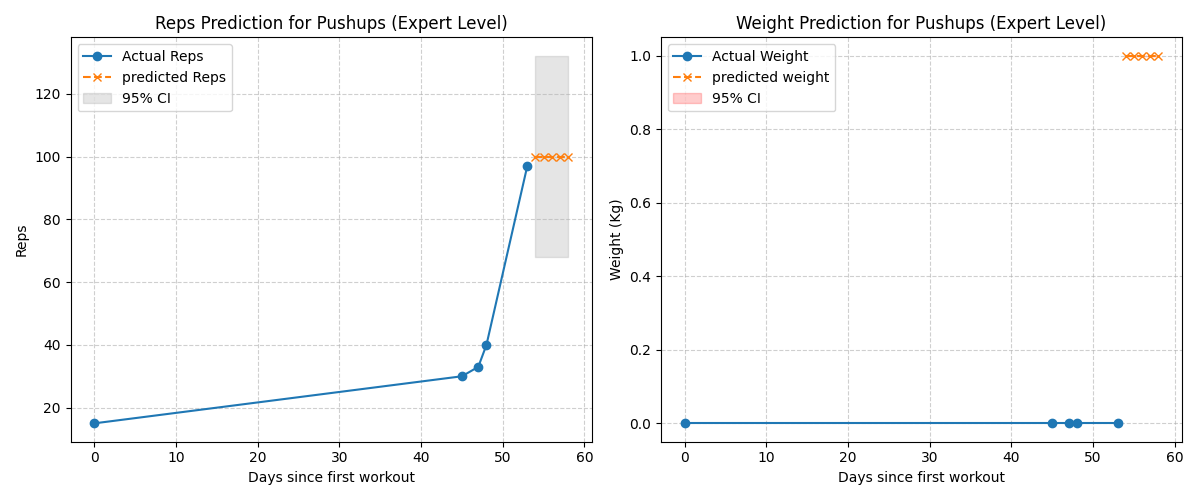
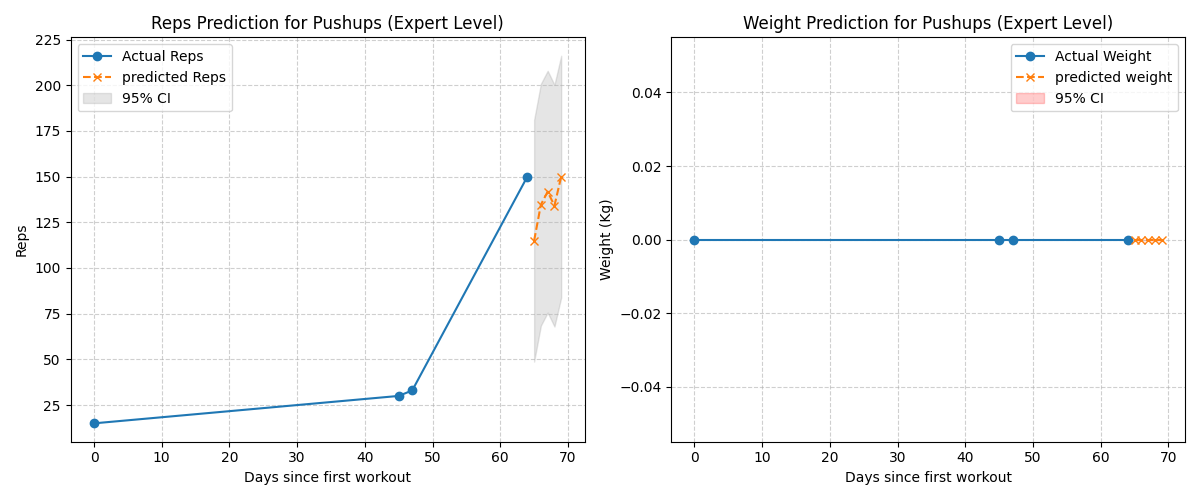
Final version

diff --git a/predictor.py b/predictor.py
@@ -22,7 +22,7 @@ def get_workout_data(student_id, exercise):
     weights = [row[2] for row in rows]
     return dates, reps, weights
    # Polynomial Regression Algorithm
-def polynomial_regression(x_values, y_values, degree=2):
+def polynomial_regression(x_values, y_values, degree=3):
     # First step is to create the design matrix where each row 
     # corresponds to a power of x (days since first workout)
     # works out exact numbers for the curve to match the data closely
@@ -74,7 +74,7 @@ def predict(coeffs, x):
 
 # predict future reps and weight using Polynomial regression and user level implementation
 # Configures user level based on performance
-def predict_targets(dates, reps, weights, user_level="intermediate", degree=2):
+def predict_targets(dates, reps, weights, user_level="intermediate", degree=3):
     if len(dates) < 2: # If less than 2 workouts are logged
         return None # Not enough data to make an accurate prediction
     # This function allowws dates to be converted into days since first workout
@@ -96,7 +96,7 @@ def predict_targets(dates, reps, weights, user_level="intermediate", degree=2):
     last_weights = weights[-1]
 
    
-
+  # I made sure that the expert level was very hard to reach
     # basic if condition if user achieves 90% of the max reps or weights
    # They can ugrade to the next level
     
@@ -116,7 +116,7 @@ def predict_targets(dates, reps, weights, user_level="intermediate", degree=2):
         # There should be atrade off when it comes to predictions
         # I came up with rules that can accomodate for this style of training
         # First if weights  are low reps will also dip
-        if future_weights[i] < max_weights * 0.5:
+        if future_weights[i] < max_weights * 0.5: # 
             future_reps[i] *= 0.85
             future_weights[i] *= 1.08
         # If weights are high reps will aso increase
@@ -133,7 +133,9 @@ def predict_targets(dates, reps, weights, user_level="intermediate", degree=2):
             future_reps[i] *= 0.95
         # Fatigue Cycle : every 3rd prediction reps dip slightly
         if i % 3 == 0:
-            future_reps[i] *= 0.90
+            future_reps[i] *= 0.90 # slight decrease of 10%
+            # Allows for a more realistic system that captures exercise
+            # in case of injury or off periods for example
         
     min_reps = last_reps * 0.7
     min_weights = last_weights * 0.7
@@ -148,7 +150,7 @@ def predict_targets(dates, reps, weights, user_level="intermediate", degree=2):
     # Makes sure that these predictions are capped at a certain level
     
   
-    # Next we calculate the 95% confidence intervals
+    # Next we calculate the 96% confidence intervals
     # this shows that these predictions are approximations
     # not certain values just to help users to plan workouts
     reps_ci = 1.96 * (max(reps) - min(reps)) / max(len(reps), 1)
@@ -180,6 +182,7 @@ def plot_predictions(days, reps, weights, future_days, future_reps, future_weigh
     plt.legend()
 
     # weight plot
+    # Confidence Intervals are shaded in red
 
     plt.subplot(1, 2, 2)
     # Subplot 2
@@ -194,20 +197,20 @@ def plot_predictions(days, reps, weights, future_days, future_reps, future_weigh
     plt.grid(True, linestyle="--", alpha=0.6)
     plt.legend()
 
-    plt.tight_layout()
+    plt.tight_layout() # ensures it fits in one seamless plot
     # makes the plot fit in one page
     plt.savefig(f"prediction_{student_id}_{exercise}_{user_level}.png")
     # Allows user to save plot as a png
     plt.show()
 
     return future_days, future_reps, future_weights, reps_ci, weights_ci
-
+  # Returns all the different variables of the plot
     # Leaderboard displays
 
 def show_leaderboard(student_id=None, exercise_filter=None):
     conn = sqlite3.connect("fitness.db") # connect to the database 
     cursor = conn.cursor()
-
+# 
     query = """
         SELECT u.student_id, u.name, w.exercise, MIN(w.datetime), MAX(w.datetime), MIN(w.reps), MAX(w.reps)
         FROM user_workouts w
